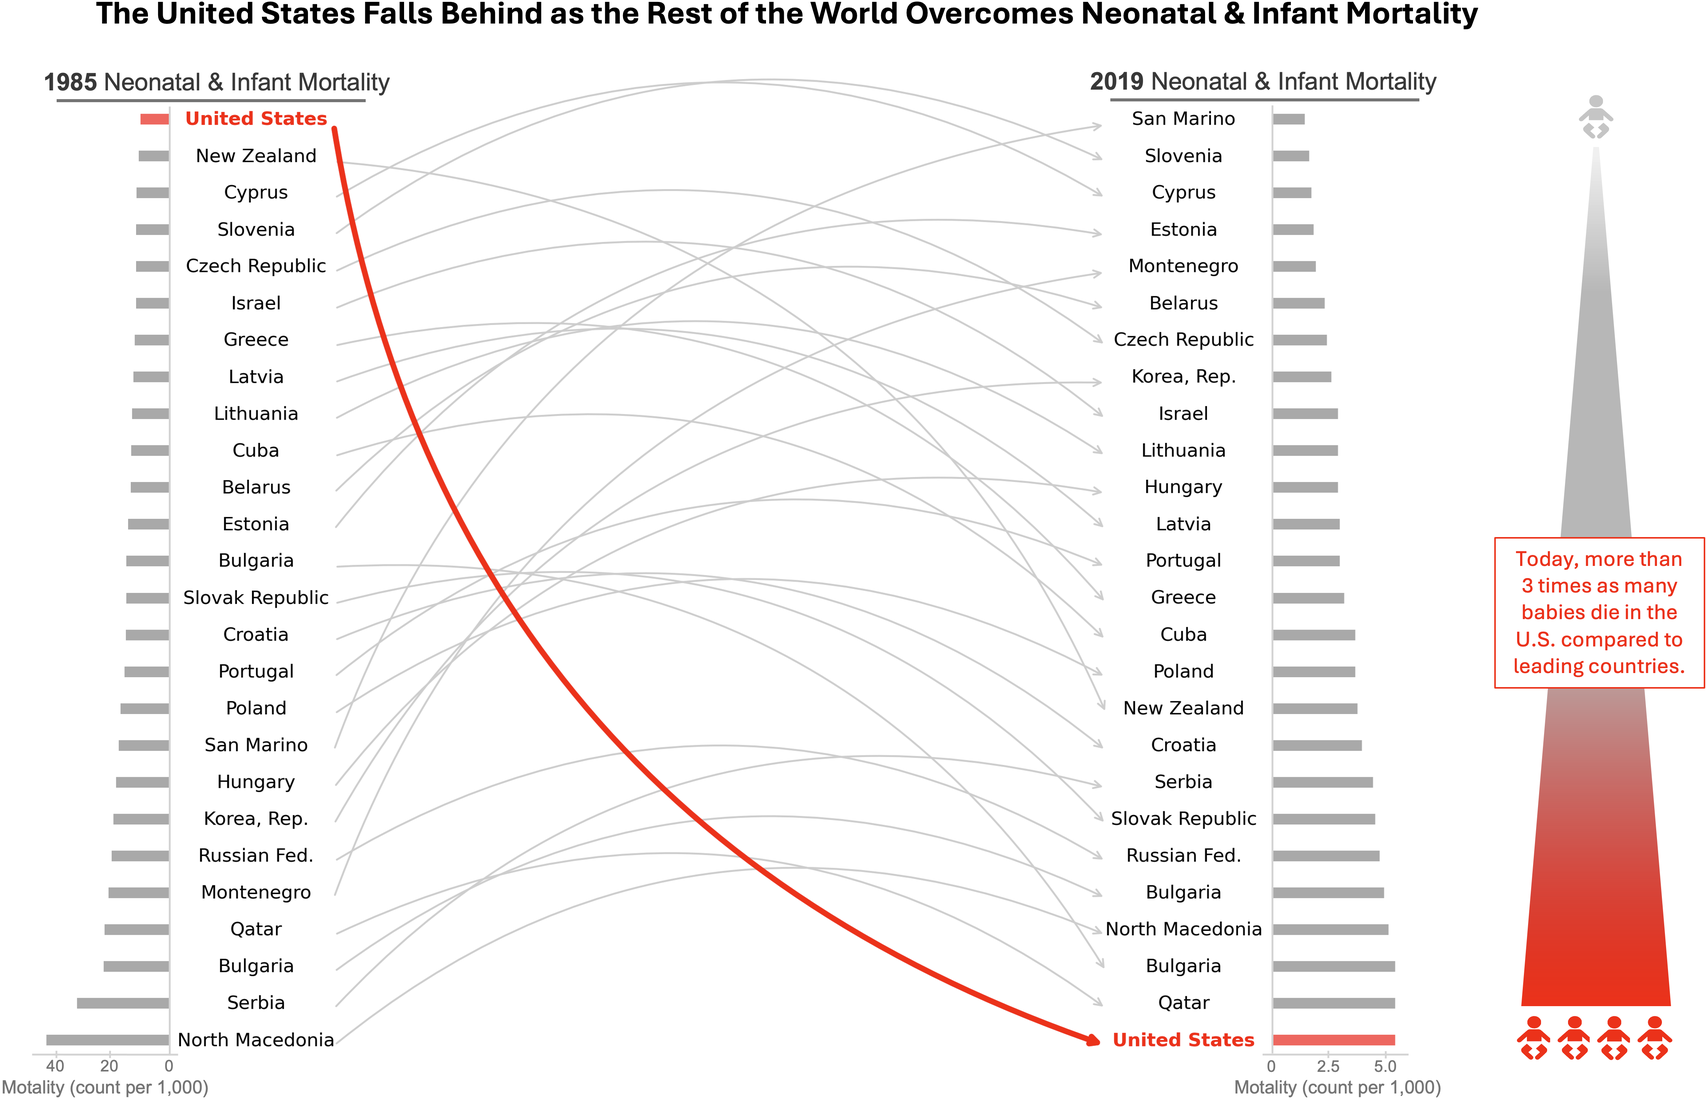
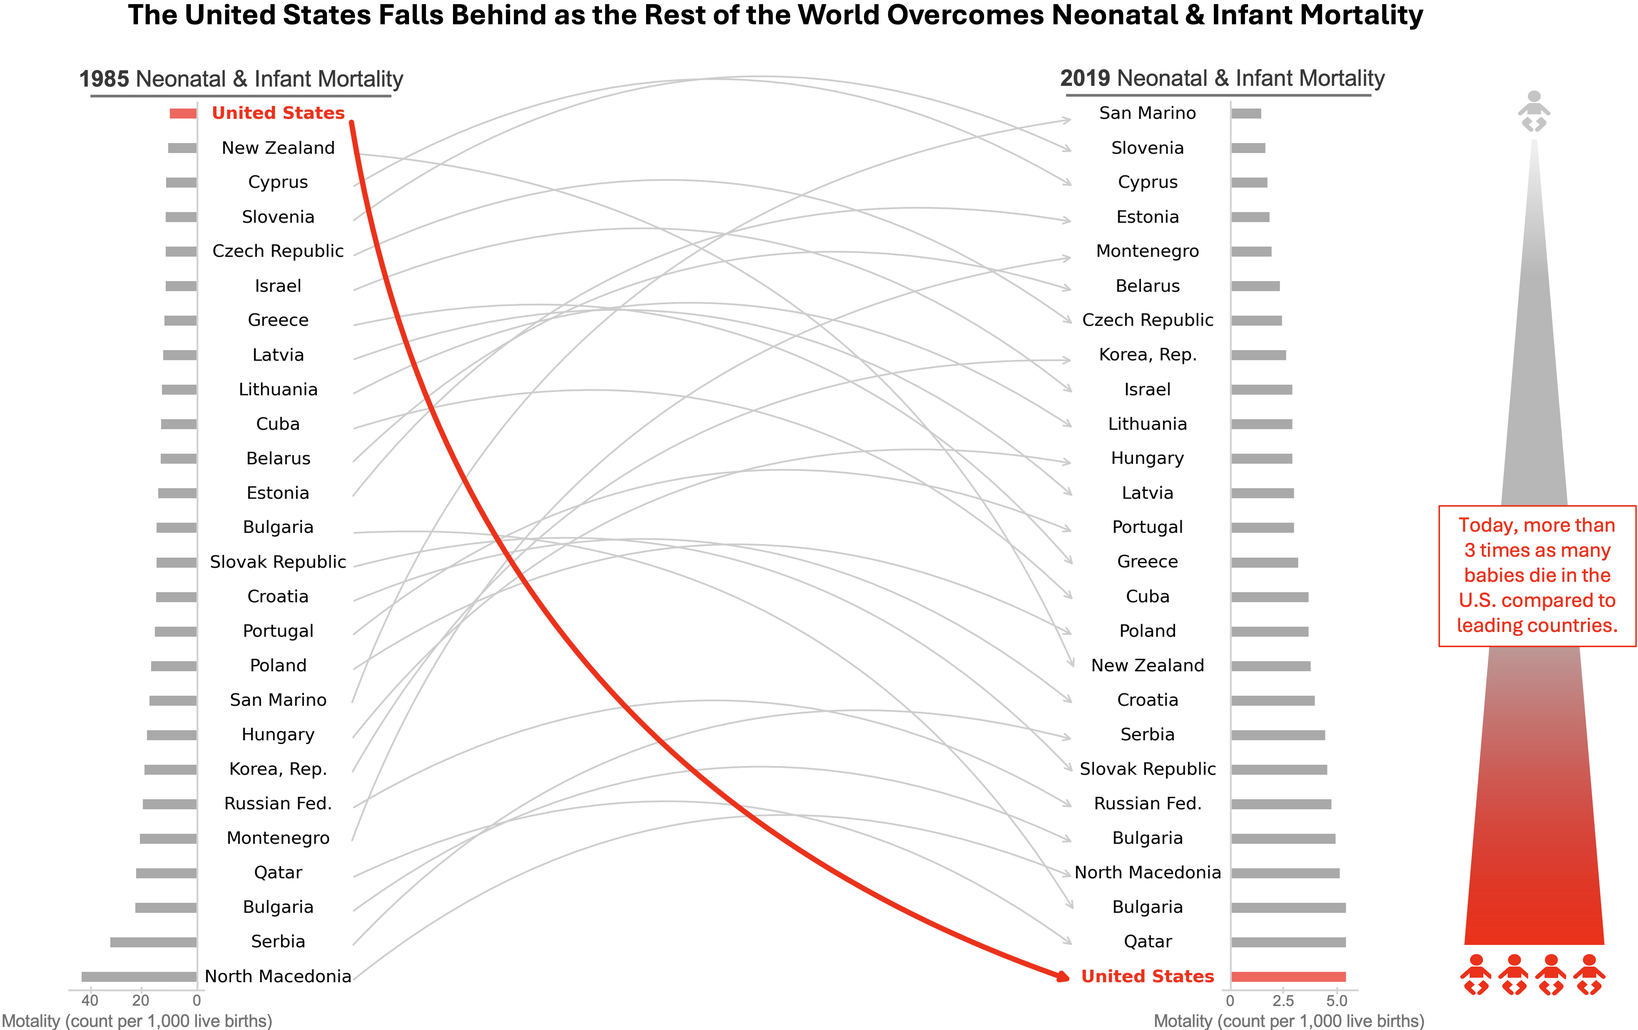
Add files via upload

diff --git a/A4_report_pschro.html b/A4_report_pschro.html
@@ -13,12 +13,12 @@
 		</h1>
 
 		<p>
-			<strong>Philip Schroeder</strong> — <em>pschro@mit.edu</em>
+			<strong>Philip Schroeder</strong> - <em>pschro@mit.edu</em>
 		</p>
 	</header>
 
 	<main>
-    <h2>Proposition: The United States has failed to address neonate and infant mortality.</h2>
+    <h2>Proposition: The United States has failed to address neonatal and infant mortality.</h2>
 
 		<section>
       <h3>FOR the Proposition</h3>
@@ -26,7 +26,9 @@
       <figure>
 				<img src="a4_fig1.png" alt="" width = "1170"/>
 				<figcaption>
-					This figure shows each countries combined neonate and infant mortality rate in 1985 and 2019 (the most recent data) based on the Human Development Indicators reported by the World Bank. The countries are sorted in ascending order for each year, with countries achieving the lowest mortality rates at the top. The arrows show how each country changed in rank over time. The bar next to each country name represents the mortality rate, reported as the absolute death count per 1,000 live births. The graphic on the right reflects the relative difference in magnitude in mortality between the United States and leading countries. 
+					This figure shows each countries combined neonatal and infant mortality rate in 1985 and 2019 (the most recent data) based on the Human Development Indicators reported by the World Bank. 
+					For each year, the countries are sorted in ascending order, with countries achieving the lowest mortality rates at the top. 
+					The arrows show how each country changed in rank from 1985 to 2019. The bar next to each country name represents the mortality rate, reported as the absolute death count per 1,000 live births. The graphic on the right reflects the relative difference in magnitude in mortality between the United States and leading countries in 2019. 
 				</figcaption>
 			</figure>
 
@@ -38,30 +40,33 @@
 				<li>Metric used for comparison
 					<ul>
 						<li>Score: -1.5</li>
-						<li>The visualization combines infant and neonatal mortality. Although neonates are commonly considered to be a subset of infants, neonatal mortality is often reported separately from infant mortality as it is generally associated with different risk factors and population characteristics. 1985 is selected as the starting year for comparison as many countries do not report neonate and infant mortality prior to this year. The U.S. performs worse with neonatal mortality than with infant mortality and performs significantly better with under-5 mortality than either neonatal or infant mortality. Therefore, using a metric that combines the worst categories for the U.S. results in it comparing less favorable with other countries. In addition, we report the absolute death counts out of 1,000 instead of percentages. Therefore, each unit increment of the value represents the lost life of an individual baby, which is more emotionally engaging than reporting percentages.  </li>
+						<li>The visualization combines infant and neonatal mortality. Although neonates are commonly considered to be a subset of infants, neonatal mortality is often reported separately from infant mortality as it is generally associated with different risk factors and population characteristics. 1985 is selected as the starting year for comparison as many countries do not report neonate and infant mortality prior to this year. The U.S. performs worse with neonatal mortality than with infant mortality and performs significantly better with under-5 mortality than either neonatal or infant mortality. Therefore, using a metric that combines the worst categories for the U.S. results in it comparing less favorably with other countries. In addition, we report the absolute death counts per 1,000 live births instead of percentages. Therefore, each unit increment of the value represents the lost life of an individual baby, which is more emotionally engaging than reporting percentages.  </li>
 					</ul>
 				</li>
-				<li>Focusing on rank versus absolute values, paired with the competitive framing in the title and caption
+				<li>Using rank instead of  absolute values, paired with the competitive framing in the title
 					<ul>
-						<li>Score: -2</li>
-						<li>The absolute mortality rate values significantly improve for all countries between 1985 and 2019 and the difference between the U.S. and leading countries is only about 0.4% in 2019. However, by focusing on rank instead of absolute differences, the figure makes it appear as though some countries (particularly the U.S.) have shown worse mortality rates over time. In addition, using rank leads to a competitive dynamic, where one country can only improve in rank if another country declines. This framing is misleading, as the mortality rates for all countries can improve in a manner that is not zero-sum. In addition, the countries are sorted according to their rank in an ascending order, with countries achieving the lowest mortality rates at the top. This creates the visual where the U.S. is falling to the bottom from left to right. This supports the figure title which describes the U.S. as falling behind the other countries.</li>
+						<li>Score: -2.0</li>
+						<li>The absolute mortality rate values significantly improve for all countries between 1985 and 2019. However, by focusing on rank instead of absolute differences, the figure makes it appear as though some countries (particularly the U.S.) have shown worse mortality rates over time. In addition, using rank leads to a competitive dynamic, where one country can only improve in rank if another country declines. This framing is misleading, as the mortality rates for all countries can improve in a manner that is not zero-sum. 
+							In addition, the countries are sorted according to their rank in ascending order, with countries achieving the lowest mortality rates at the top. This creates the visual where the U.S. is falling to the bottom from left to right. This supports the figure title which describes the U.S. as falling behind the other countries.</li>
 					</ul>
 				</li>
 				<li>X-axis label size and rescaling between years
 					<ul>
-						<li>Score: -2</li>
-						<li>The x axis has very small labels, which undermines the reader’s ability to recognize the relatively small differences in magnitude in the absolute death counts across countries. For example, in 2019, the absolute difference in mortality rate between the U.S. and leading countries is only 0.4% (4 out of 1,000 livebirths). In addition, the x axis is scaled differently across the years. This difference in scaling, paired with the focus on rank, makes it appear as though the mortality rate is larger in the U.S. in 2019, despite the fact that it is less than half of the 1985 value.						</li>
+						<li>Score: -2.0</li>
+						<li>The x axis has very small labels, which undermines the reader's ability to recognize the relatively small differences in magnitude in the absolute death counts across countries. For example, in 2019, the absolute difference in mortality rate between the U.S. and leading countries is only about 0.4% (or about 4 per 1,000 live births). In addition, the x axis is scaled differently across the years. This difference in scaling, paired with the focus on rank, makes it appear as though the mortality rate is larger in the U.S. in 2019, despite the fact that it is less than half of the 1985 value.						</li>
 					</ul>
 				</li>
 				<li>Coloring and arrow angle
 					<ul>
 						<li>Score: -1.5</li>
-						<li>The figure is almost entirely grey or black, with red (the color of blood) used to represent the U.S. This draws the reader’s attention to the significant fall in the rank of the U.S. relative to other countries. In addition, the arrow for the U.S. projects downward from 1985 to 2019, while the arrows for all other countries project upward (regardless of their change in rank). This difference in angling obscures any drops in rank we see with other countries (e.g., New Zealand). I explored approaches that involved projecting the arrows upward for countries that increased in rank and downward for countries that decreased in rank. However, this made the fall in the U.S. rank seem less severe.</li>
+						<li>The figure is almost entirely gray or black, with red (the color of blood) used to represent the U.S. This draws the reader's attention to the significant fall in the rank of the U.S. relative to other countries. In addition, the arrow for the U.S. projects downward from 1985 to 2019, while the arrows for all other countries project upward (regardless of their change in rank). 
+							This difference in angling obscures any drops in rank we see with other countries (e.g., New Zealand). 
+							I initially explored more natural approaches that involved projecting the arrows upward for countries that increased in rank and downward for countries that decreased in rank. However, this made the fall in the U.S. rank seem less severe.</li>
 					</ul>
 				</li>
 				<li>Graphic on right side highlighting the increased number of baby deaths in the United States
 					<ul>
-						<li>Score: -1</li>
+						<li>Score: -1.0</li>
 						<li>The graphic on the right depicts the relative difference in magnitude in mortality between the U.S. and leading countries. The graphic includes baby icons (covered in red) to emotionally appeal to the reader by visually representing the nature of the lives being lost. I also considered using the baby icons to represent the mortality rate for each country (instead of using the bars). However, this led to an over-usage of the baby imagery that diluted its impact relative to the single graphic.</li>
 					</ul>
 				</li>
@@ -85,7 +90,9 @@
       <figure>
 				<img src="a4_fig2.png" alt="" width = "1170"/>
 				<figcaption>
-					This figure shows each countries combined neonatal and infant mortality rate, adjusted for rate of low birthweight (LBW) babies, for each year from 1960 to 2019 (the most recent data) based on the Human Development Indicators reported by the World Bank. The mortality rate is represented as a percentage and is adjusted using a standardization method, provided by <a  href="https://archpublichealth.biomedcentral.com/articles/10.1186/s13690-023-01037-y">Jana et al., 2023</a>, that accounts for the rate of LBW babies (a variable that is influenced by population factors such as maternal age), which may lead to inflated death counts. The adjusted rate reflects the mortality rate among normal birthweight babies, providing insight into the healthcare quality of the country in a way that is independent of differences in birthweight distributions. 
+					This figure shows each countries combined neonatal and infant mortality rate, adjusted for rate of low birthweight (LBW) babies, for each year from 1960 to 2019 (the most recent data) based on the Human Development Indicators reported by the World Bank. 
+					The mortality rate is represented as a percentage and is adjusted using a standardization method, provided by <a  href="https://archpublichealth.biomedcentral.com/articles/10.1186/s13690-023-01037-y">Jana et al., 2023</a>, that accounts for the rate of LBW babies within the country (a variable that is influenced by population factors such as maternal age), which may lead to inflated death counts. 
+					The adjusted rate reflects the mortality rate among normal birthweight babies, providing insight into the healthcare quality of the country in a way that is independent of differences in birthweight distributions. 
 				</figcaption>
 			</figure>
 
@@ -96,32 +103,37 @@
 			<ol>
 				<li>Metric used for comparison
 					<ul>
-						<li>Score: -0.5</li>
-						<li>This figure uses the same metric as the first figure, but adjusts for the rate of low birthweight (LBW) babies. It is a common practice to adjust neonate and infant mortality rates by LBW rate since countries with more LBW births (due to factors such as maternal age and multiple births) may have inflated death counts. In addition, some high-income countries (e.g., the U.S.) may have relatively high infant mortality rates partly because they have high survival rates for very premature LBW infants, who are still at higher risk of death. Adjusting for LBW helps isolate healthcare quality from differences in birth weight distributions. Since there are many missing values in the LBW reporting, this adjustment does not make a large difference in the mortality percentages. However, it has an overall favorable effect for the U.S. (which has a disproportionately large number of LBW babies) relative to other countries.</li>
+						<li>Score: 0.0</li>
+						<li>This figure uses the same metric as the first figure, but adjusts for the rate of low birthweight (LBW) babies. It is common practice to adjust neonatal and infant mortality rates by LBW rate since countries with more LBW births (due to factors such as maternal age and multiple births) may have inflated death counts. In addition, some high-income countries, such as the U.S., may have relatively high infant mortality rates partly because they have high survival rates for premature infants, who are LBW and at higher risk of death. Adjusting for LBW helps isolate healthcare quality from differences in birth weight distributions. Since there are many missing values in the LBW reporting, this adjustment ultimately does not make a large difference in the mortality percentages. However, it has an overall favorable effect for the U.S. (which has a disproportionately large number of LBW babies) relative to other countries.</li>
 					</ul>
 				</li>
-				<li>Focusing on absolute values instead of rank
+				<li>Using absolute values instead of rank
 					<ul>
-						<li>Score: +1</li>
-						<li>The first figure was deceptive in how it focused on rank over absolute values. This figure is more earnest, representing the absolute values on a simple line chart that allows readers to view the trends in a direct manner. One disadvantage of this visualization, however, is that all of the countries cluster near the bottom right of the plot, which makes it very difficult to make meaningful comparisons beyond 2000. This is an honest limitation of this visualization approach that happens to work in favor of the underlying goal of countering the above proposition.</li>
+						<li>Score: +1.0</li>
+						<li>The first figure was deceptive in how it focused on rank over absolute values. This figure is more earnest, representing the absolute values on a simple line chart that allows readers to view the trends in a direct manner. One disadvantage of this visualization, however, is that all of the countries cluster near the bottom right of the plot, which makes it very difficult to make meaningful comparisons beyond the year 2000. 
+							This is an honest limitation of this visualization approach that happens to work in favor of the underlying goal of countering the above proposition.</li>
 					</ul>
 				</li>
 				<li>Highlighting 1% mortality threshold 
 					<ul>
 						<li>Score: -0.5</li>
-						<li>The figure includes a dashed line, along with a label, that highlights the 1% mortality threshold. Although 1% mortality is a convenient threshold to set as a target, it is arbitrary and the importance of continuing to decrease mortality rates does not meaningfully change once this threshold is achieved. In addition, the shading below the dashed line makes it more difficult to compare the different colored lines as they approach more recent years and further obscures the plateauing of the U.S.’s progress in recent years relative to other countries.  </li>
+						<li>The figure includes a dashed line, along with a label, that highlights the 1% mortality threshold. Although 1% mortality is a convenient threshold to set as a target, it is arbitrary and the importance of continuing to decrease mortality rates does not meaningfully change once this threshold is achieved. In addition, the shading below the dashed line makes it more difficult to compare the different colored lines as they approach more recent years and further obscures the plateauing of the U.S.'s progress in recent years relative to other countries.  </li>
 					</ul>
 				</li>
-				<li>Obscuring change over time and focusing on number of years below 1% mortality
+				<li>Obscuring change over time in recent decades
 					<ul>
-						<li>Score: -1</li>
-						<li>Overall, the line chart layout seems like the most straightforward to represent mortality over time and allow for fair comparison across countries. However, since all the countries converge to less than 1% in the later decades, the chart does not allow for useful comparison of more recent mortality levels. In fact, you cannot even see the fact that the U.S. ends up with the highest mortality rate among all countries included in the figure due to the overcrowding of the datapoints near 2019. </li>
+						<li>Score: -1.0</li>
+						<li>Overall, the line chart layout seems like the most straight forward approach to represent mortality over time and to allow for a fair comparison across countries. However, since all the countries converge to less than 1% in the later decades, the chart does not allow for useful comparison of more recent mortality levels. 
+							In fact, reader's cannot even see the fact that the U.S. ends up with the highest mortality rate among all countries included in the figure due to the overcrowding of the datapoints near 2019. </li>
 					</ul>
 				</li>
 				<li>Sorting county names based on number of years below threshold instead of current mortality rates
 					<ul>
 						<li>Score: -1.5</li>
-						<li>The figure sorts the countries in descending order based on the number of years the country has achieved less than 1% mortality, with the U.S. listed at the top. The figure awards the U.S. for its long-term success with reaching this threshold, distracting from the fact that the U.S. has underperformed all other countries in recent years. A more earnest visualization would highlight the extent to which countries are dropping below 1% mortality, instead of simple counting the number of years the country falls somewhere below this arbitrary threshold. There is a meaningful difference between achieving less than 0.2% mortality (as done by San Marino and Slovenia in 2019) compared to 0.5% to 1% mortality (as done by the U.S.) and the figure does not adequately reflect this difference.   </li>
+						<li>The figure sorts the countries in descending order based on the number of years the country has achieved less than 1% mortality, with the U.S. listed at the top. 
+							The figure awards the U.S. for its long-term success in reaching this threshold, distracting from the fact that the U.S. has underperformed the other countries in recent years. 
+							A more earnest visualization would highlight the extent to which countries are dropping below 1% mortality, instead of simple counting the number of years the country falls somewhere below this arbitrary threshold. 
+							There is a meaningful difference between achieving less than 0.2% mortality (as done by San Marino and Slovenia in 2019) compared to achieving 0.5% to 1% mortality (as done by the U.S. and Qatar) and the figure does not adequately reflect this difference.   </li>
 					</ul>
 				</li>
 			</ol>
@@ -130,9 +142,12 @@
     <section>
       <h2>Final Reflection</h2>
 
-      <p>Throughout the design process for both visualizations, I grappled with the balance between persuasive and misleading visual storytelling. One of the most challenging aspects was identifying where the line should be drawn between making an argument compelling and distorting reality. The first visualization, which aimed to support the proposition, relied on rank-based framing and emotionally charged imagery to emphasize the relative decline of the U.S. in neonate and infant mortality. Although this approach was effective in communicating the argument, it also obscured some critical contextual details, such as the overall improvement in mortality rates globally. The second visualization, which argued against the proposition, attempted to be more earnest by focusing on absolute values and adjusting for low birthweight rates. However, even in this case, choices such as emphasizing the 1% mortality threshold and obscuring recent differences among countries still shaped the viewer’s perception in a way that could be considered misleading.</p>
+      <p>Throughout the design process for both visualizations, I grappled with the balance between persuasive and misleading visual storytelling. One of the most challenging aspects was identifying where the line should be drawn between making an argument compelling and distorting reality. The first visualization, which aimed to support the proposition, relied on rank-based framing and emotionally charged imagery to emphasize the relative decline of the U.S. in neonatal and infant mortality. 
+		Although this approach helped to communicate the argument by obscuring some critical contextual details, such as the overall improvement in mortality rates globally. 
+		The second visualization, which argued against the proposition, attempted to be more earnest by focusing on absolute values and adjusting for low birthweight rates. 
+		However, even in this case, choices such as emphasizing the 1% mortality threshold and obscuring recent differences among countries still shaped the reader's perception in a way that could be considered misleading.</p>
 
-		<p>This experience has reshaped my understanding of ethical analysis and visualization. Ethical visualization does not mean complete neutrality—every choice made in data selection, transformation, and presentation inherently involves framing a narrative. However, ethical visualization should aim to minimize distortions that mislead the viewer into false conclusions. Acceptable persuasive choices involve emphasizing particular aspects of the data while still allowing for a fair and reasonable interpretation of the broader trends. Misleading choices, on the other hand, involve omitting key context, distorting scales, or using visual cues to drive conclusions that are not supported by the underlying data. Ultimately, an ethical approach to visualization requires transparency about the choices made, as well as a commitment to presenting data in a way that informs rather than manipulates.</p>
+		<p>This experience has reshaped my understanding of ethical analysis and visualization. Ethical visualization does not mean complete neutrality. Every choice made in data selection, transformation, and presentation inherently involves framing a narrative. However, ethical visualization should aim to minimize distortions that mislead the viewer into false conclusions. Acceptable persuasive choices involve emphasizing particular aspects of the data while still allowing for a fair and reasonable interpretation of the broader trends. Misleading choices, on the other hand, involve omitting key context, distorting scales, or using visual cues to drive conclusions that are not supported by the underlying data. Ultimately, an ethical approach to visualization requires transparency about the choices made, as well as a commitment to presenting data in a way that informs rather than manipulates.</p>
 		
     </section>
 	</main>
